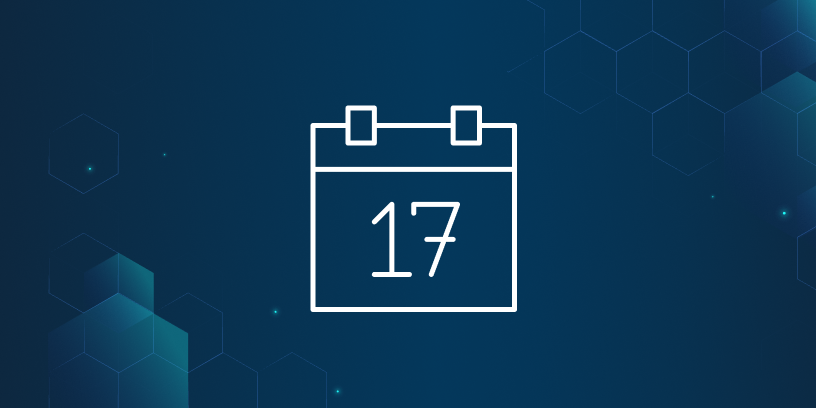
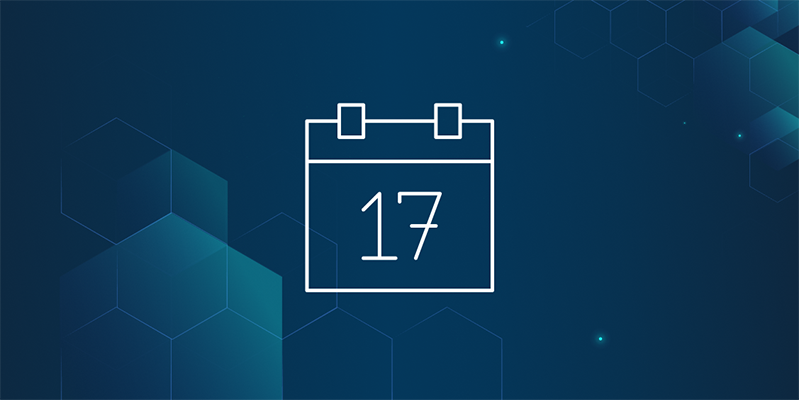
chore: replace fallback images, add blog fallback (#66)

diff --git a/src/.vuepress/theme/components/blog/PostHero.vue b/src/.vuepress/theme/components/blog/PostHero.vue
@@ -25,7 +25,7 @@
             <LazyImage
               img-class="object-contain rounded w-full"
               :alt="$page.title"
-              :src="`${image ? image : '/header-image-placeholder.png'}`"
+              :src="`${image ? image : '/blog-post-placeholder.png'}`"
             />
           </div>
         </div>

diff --git a/src/.vuepress/theme/components/blog/RegularCard.vue b/src/.vuepress/theme/components/blog/RegularCard.vue
@@ -20,7 +20,7 @@
             :src="`${
               frontmatter.header_image
                 ? frontmatter.header_image
-                : '/header-image-placeholder.png'
+                : '/blog-post-placeholder.png'
             }`"
             src-placeholder="/card-placeholder.png"
             :ctx="regularPath"

diff --git a/src/.vuepress/theme/layouts/BlogPost.vue b/src/.vuepress/theme/layouts/BlogPost.vue
@@ -15,7 +15,7 @@
             :src="
               $frontmatter.image
                 ? $frontmatter.image
-                : '/header-image-placeholder.png'
+                : '/blog-post-placeholder.png'
             "
           />
         </div>
